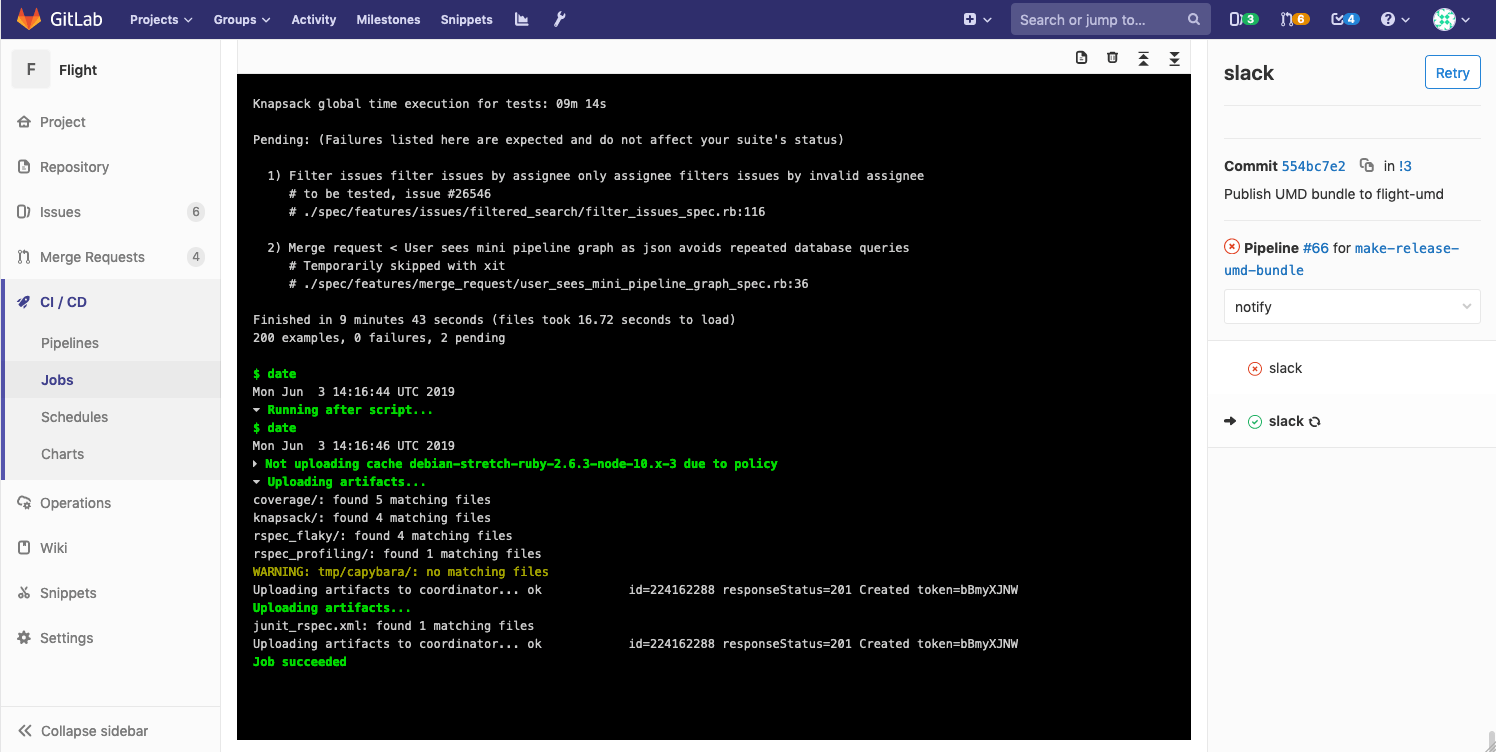
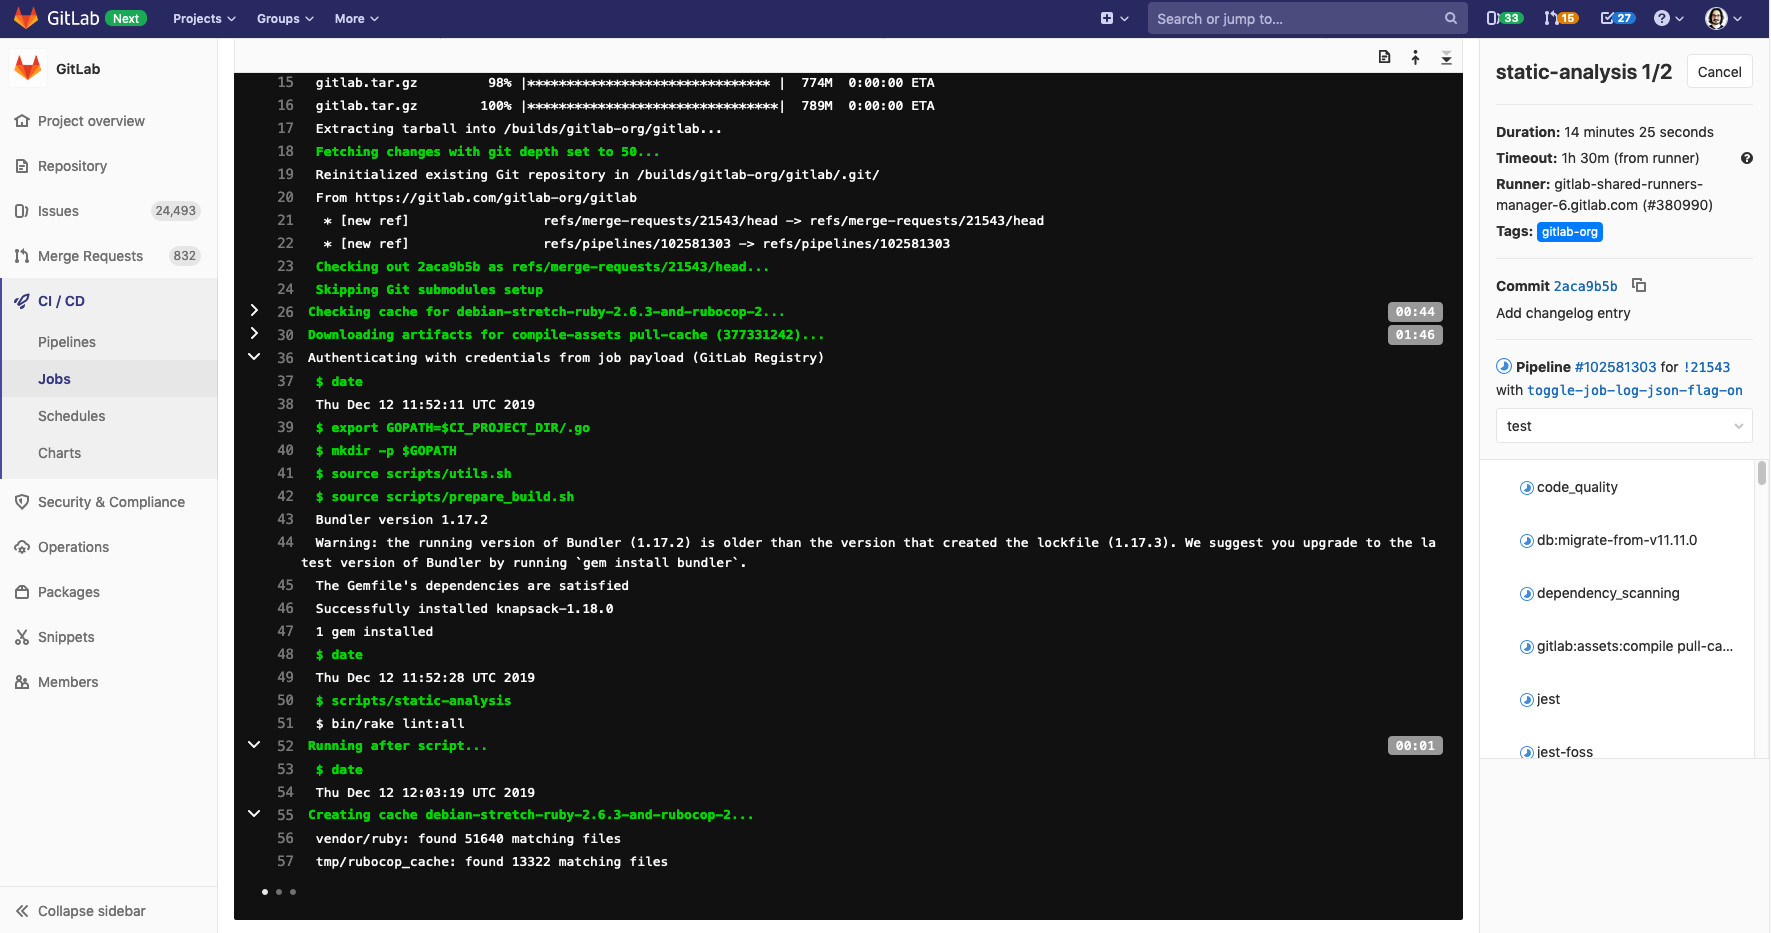
Update docs with new job log

diff --git a/spec/features/projects/jobs_spec.rb b/spec/features/projects/jobs_spec.rb
@@ -809,7 +809,6 @@ describe 'Jobs', :clean_gitlab_redis_shared_state do
 
         it 'renders job log' do
           wait_for_all_requests
-          # todo
           expect(page).to have_selector('.job-log')
         end
       end

diff --git a/doc/ci/pipelines.md b/doc/ci/pipelines.md
@@ -149,12 +149,13 @@ The union of A, B, and C is (1, 4) and (6, 7). Therefore, the total running time
 > [Introduced](https://gitlab.com/gitlab-org/gitlab-foss/issues/14664) in GitLab
 > 12.0.
 
-Job logs are divided into sections that can be collapsed or expanded.
+Job logs are divided into sections that can be collapsed or expanded. Each section will display
+the duration.
 
 In the following example:
 
-- Two sections are expanded and can be collapsed.
-- One section is collapsed and can be expanded.
+- Two sections are collapsed and can be expanded.
+- Three sections are expanded and can be collapsed.
 
 ![Collapsible sections](img/collapsible_log.png)
 
